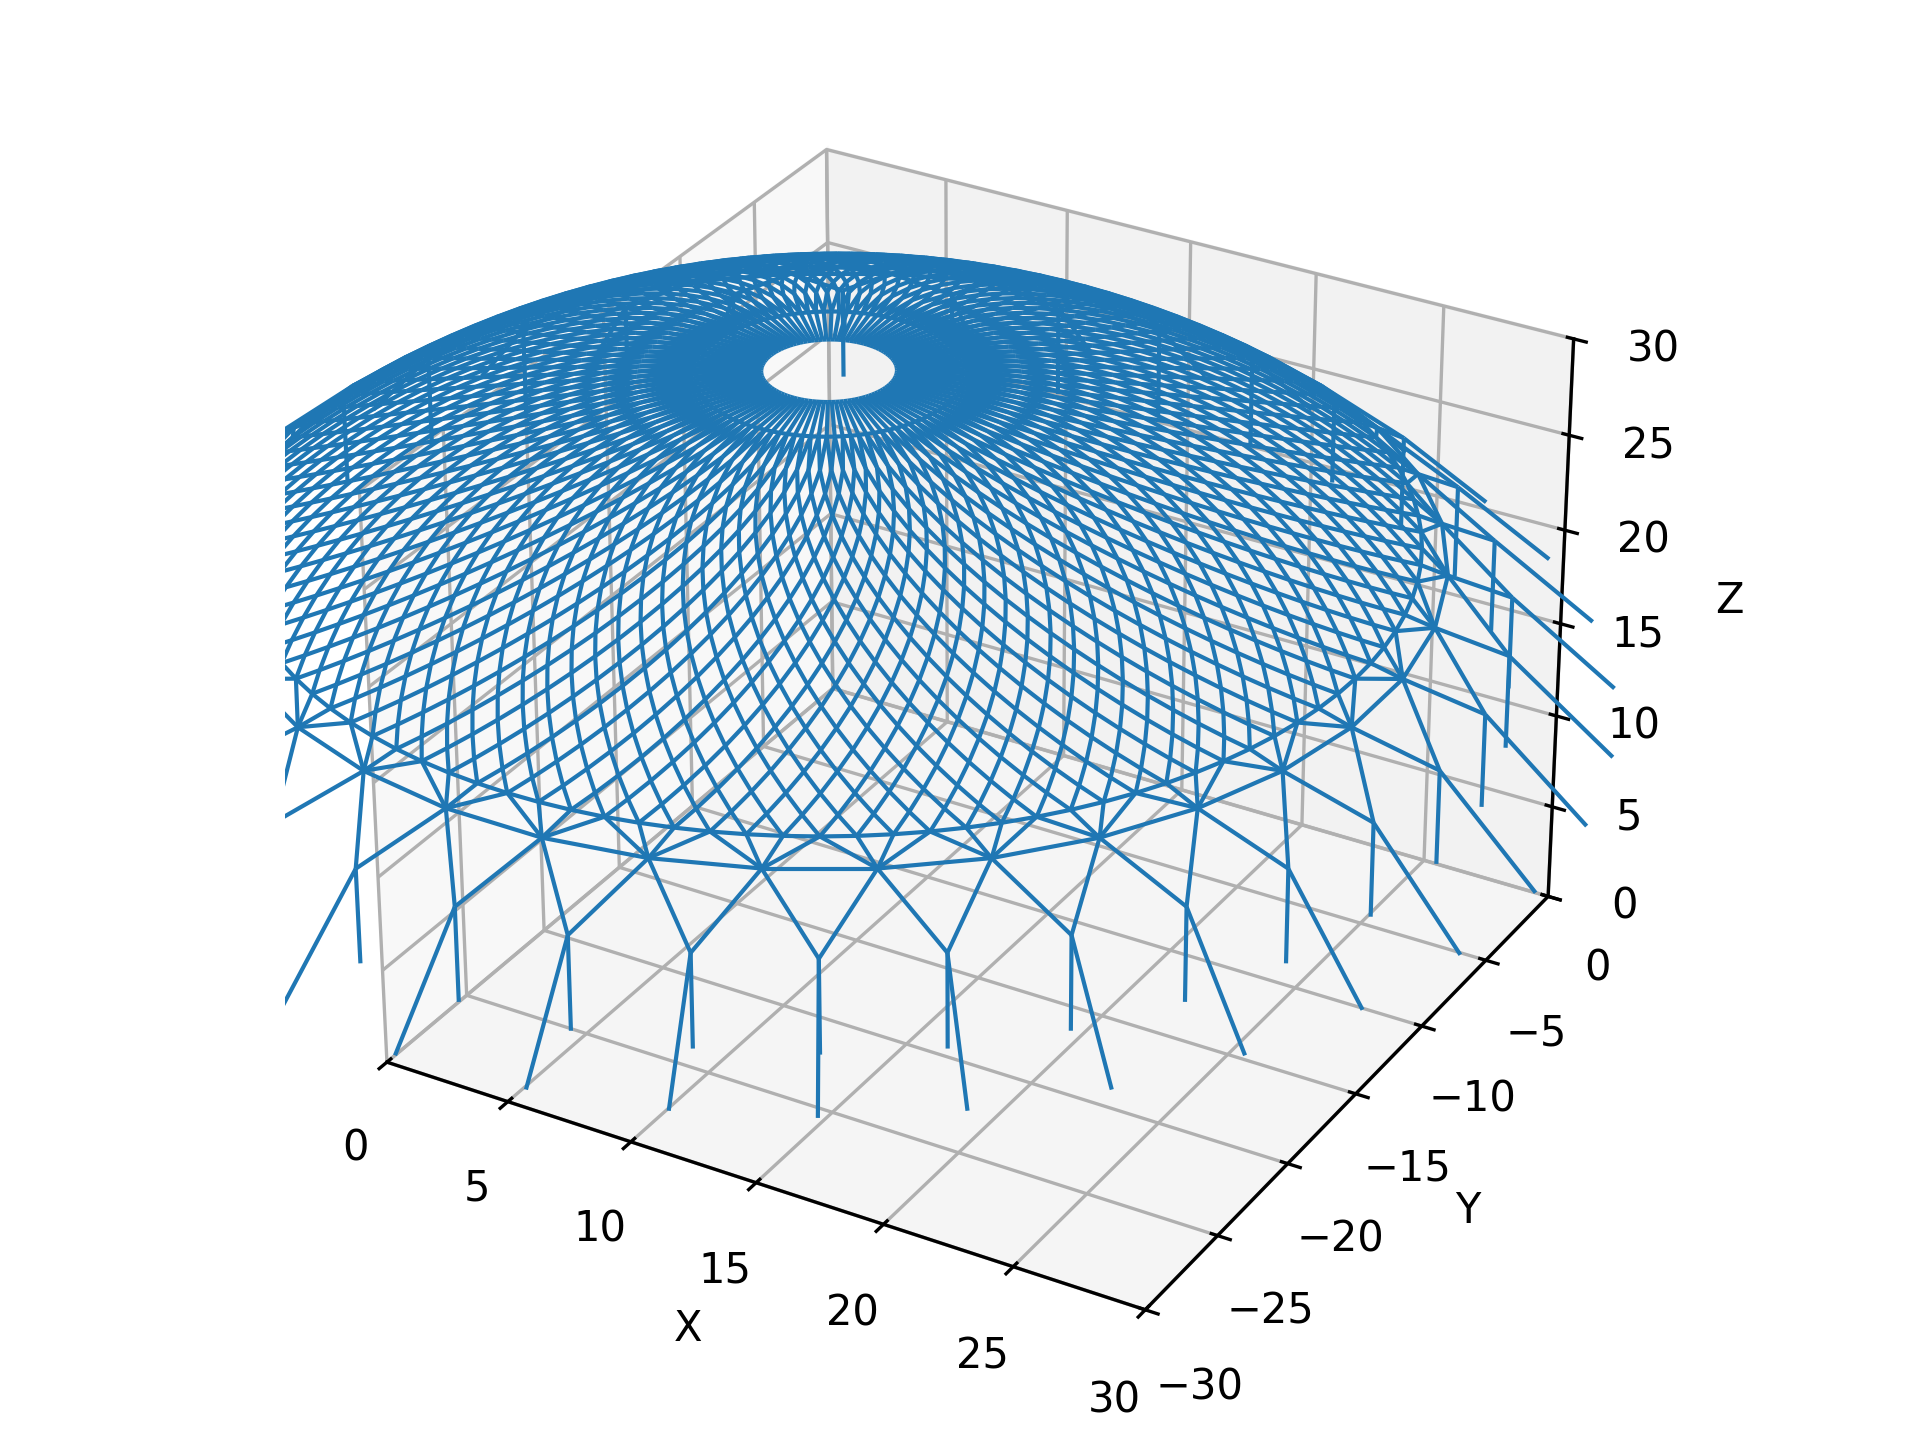
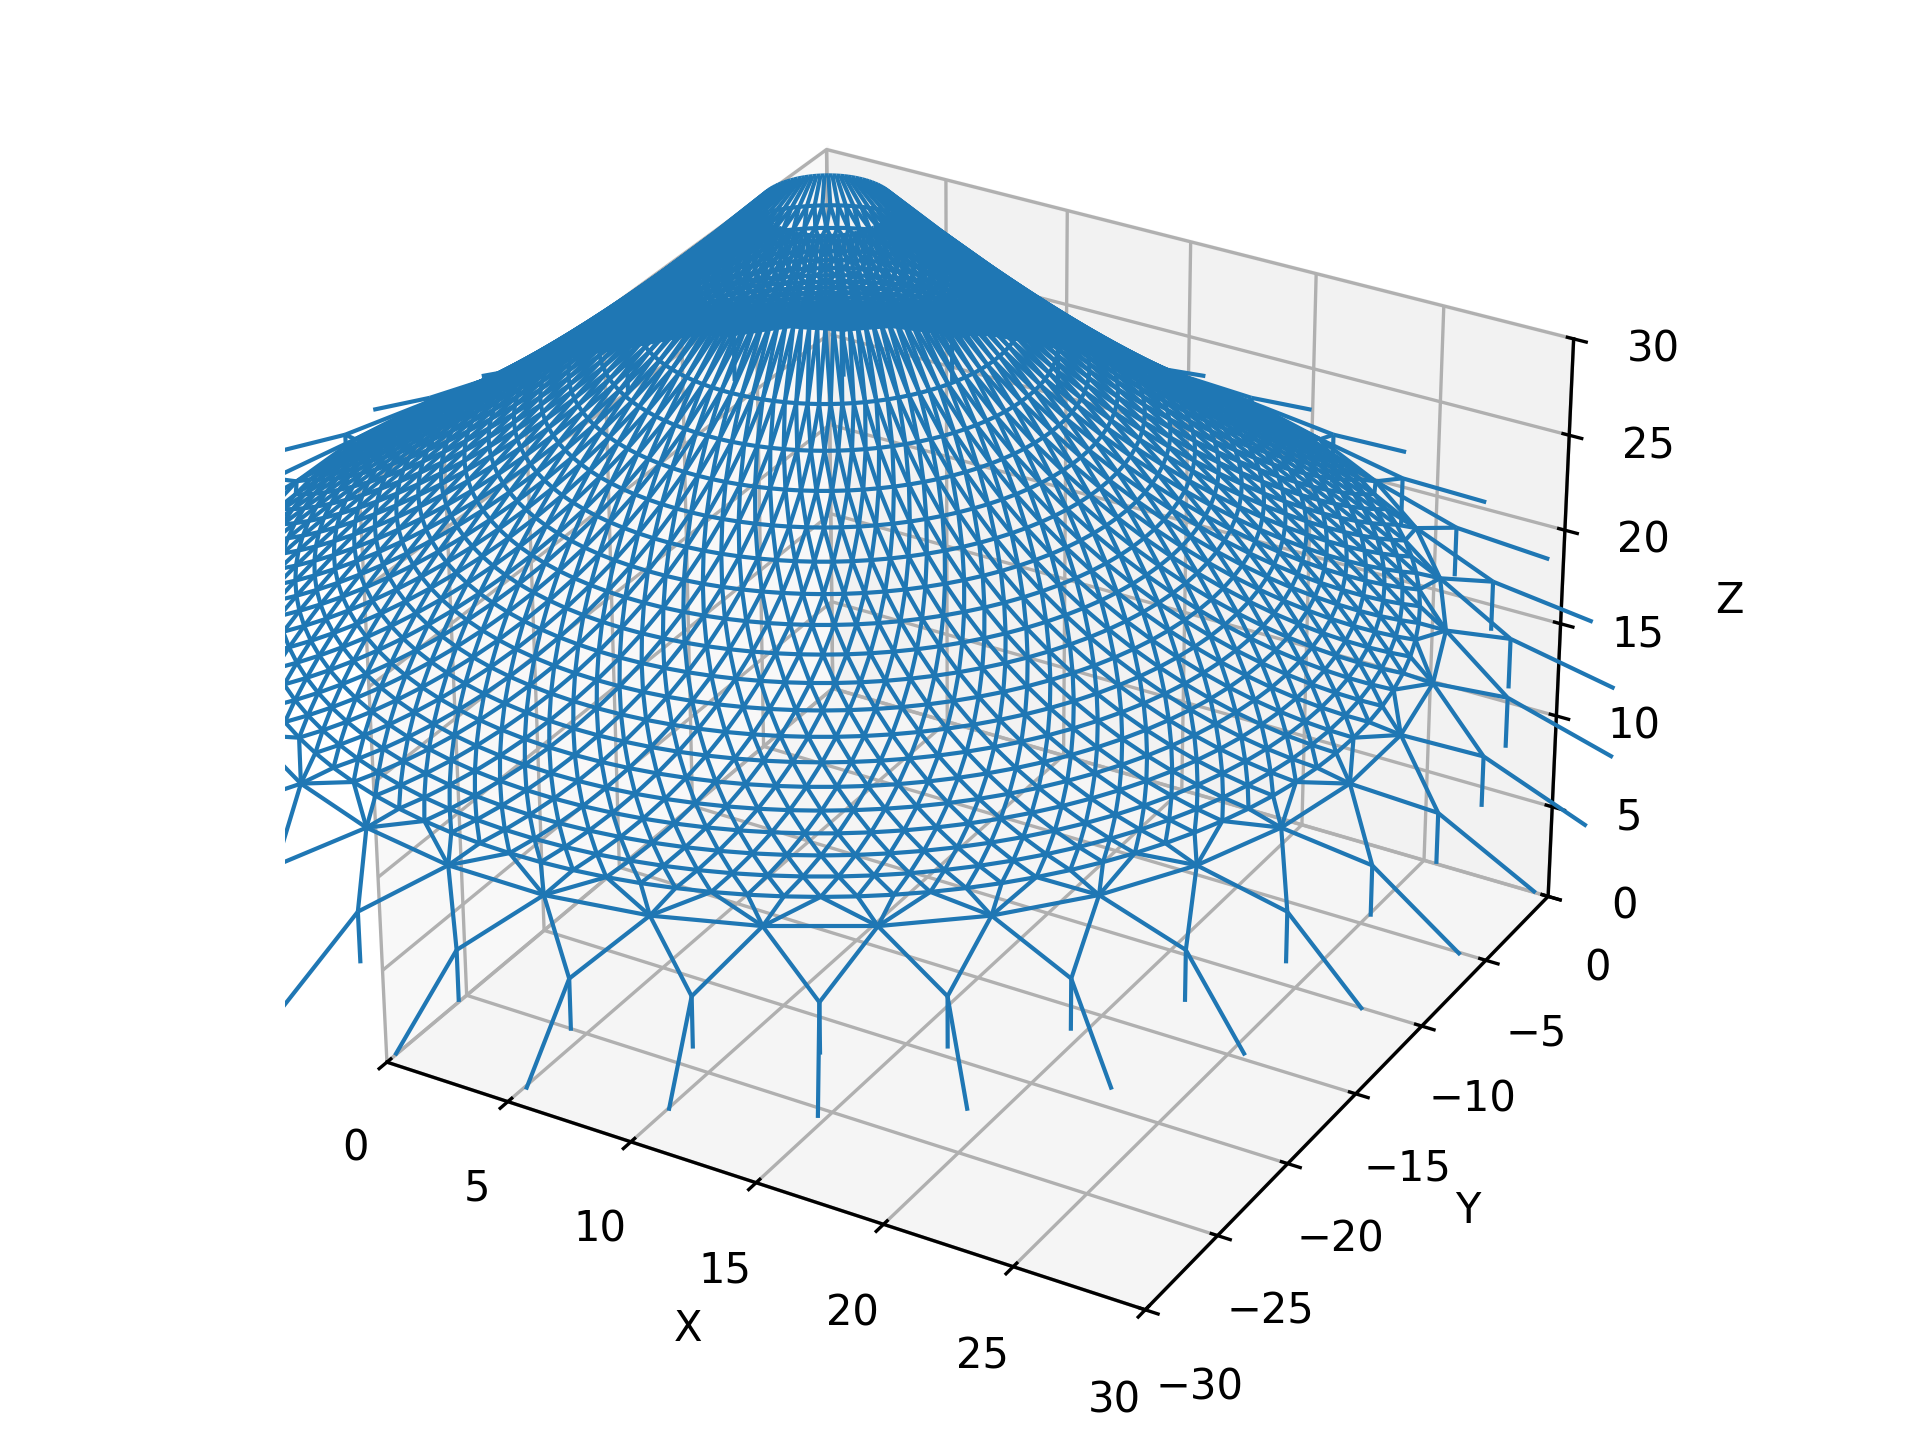
tmp

diff --git a/midterm/main.py b/midterm/main.py
@@ -130,32 +130,38 @@ def do_plot(res_):
 
     fig = plt.figure(figsize=(18, 8))
     # plt.subplots_adjust(hspace=0.1, wspace=0.1)
-    fig.suptitle("spherical shape, horizontal bracing", fontsize=32)
+    fig.suptitle(
+        "redesign (forces are scaled down 2x when drawn, compared to previous plots)",
+        fontsize=32,
+    )
 
-    ax = fig.add_subplot(131, projection="3d", computed_zorder=False)
+    computed_zorder = True
+    ax = fig.add_subplot(131, projection="3d", computed_zorder=computed_zorder)
     assert isinstance(ax, Axes3D)
     ax.set_xlim(-20, 10)
     ax.set_ylim(-10, 20)
     ax.set_zlim(-10, 20)
     do_plot_one(ax, res_)
 
-    ax = fig.add_subplot(132, projection="3d", computed_zorder=False)
+    ax = fig.add_subplot(132, projection="3d", computed_zorder=computed_zorder)
     assert isinstance(ax, Axes3D)
     ax.set_xlim(-5, 5)
     ax.set_ylim(5, 15)
     ax.set_zlim(0, 10)
     do_plot_one(ax, res_)
 
-    ax = fig.add_subplot(133, projection="3d", computed_zorder=False)
+    ax = fig.add_subplot(133, projection="3d", computed_zorder=computed_zorder)
     assert isinstance(ax, Axes3D)
-    ax.set_xlim(8, 23)
-    ax.set_ylim(5, 20)
-    ax.set_zlim(-17, -2)
+    ax.set_xlim(0, 20)
+    ax.set_ylim(0, 20)
+    ax.set_zlim(0, 20)
+    ax.view_init(elev=90, azim=0)
     do_plot_one(ax, res_)
-    # plt.show()
 
     plt.tight_layout()
-    plt.savefig("sphere2.png", dpi=300)
+
+    # plt.show()
+    plt.savefig("redesign.png", dpi=300)
     plt.close()
 
 
@@ -178,7 +184,7 @@ def do_plot_one_(ax, res_):
 
     f_max = jnp.max(jnp.abs(forces.unflatten()))
     print("f_max", f_max)
-    f_max = 500 * areg.pound
+    f_max = 1000 * areg.pound
 
     def _color(x: fval, end: Array):
         x = lax.min(x / f_max * 10, 1.0)

diff --git a/midterm/build_graph.py b/midterm/build_graph.py
@@ -101,14 +101,16 @@ def build_graph() -> graph_t:
     def _project_get_h(p: Array) -> Array:
         # return jnp.array(0.0)
         assert p.shape == (2,)
-        # # r_min = 2.0 * areg.meters
-        # r_min = r0
-        # # r_min = 0.0
-        # rat = jnp.maximum((jnp.linalg.norm(p) - r_min) / (radius - r_min), 0.0)
+        # r_min = 2.0 * areg.meters
+        r_min = r0
+        # r_min = 0.0
+        rat = jnp.maximum((jnp.linalg.norm(p) - r_min) / (radius - r_min), 0.0)
+        x = 1 - rat
+        ans = (x**2 + 2 * x) / 2
         # ans = (jnp.cosh(rat) - jnp.cosh(1)) / (jnp.cosh(0) - jnp.cosh(1))
-        # return ans * height
+        return ans * height
 
-        return jnp.sqrt(ball_rad**2 - jnp.sum(p**2)) + sphere_center_height
+        # return jnp.sqrt(ball_rad**2 - jnp.sum(p**2)) + sphere_center_height
 
     def add_point(
         g: graph_t,
